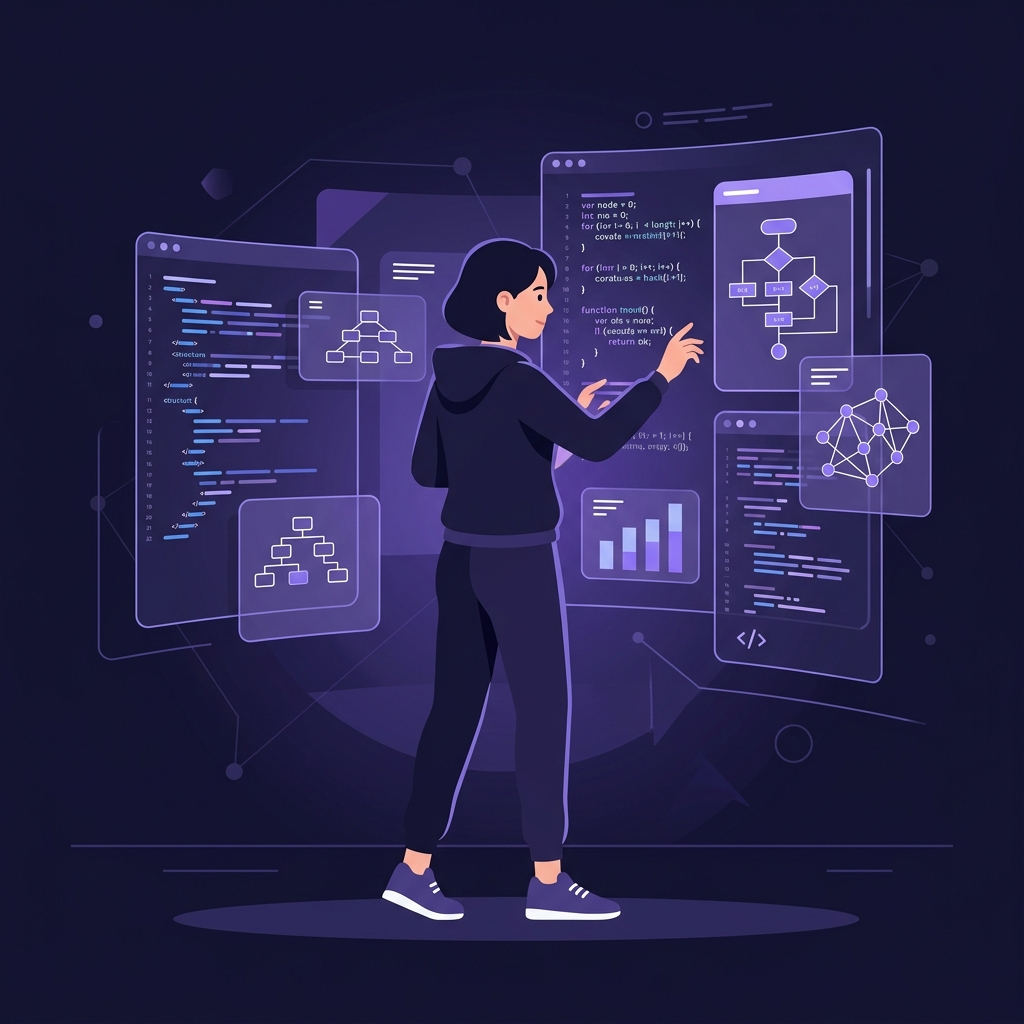
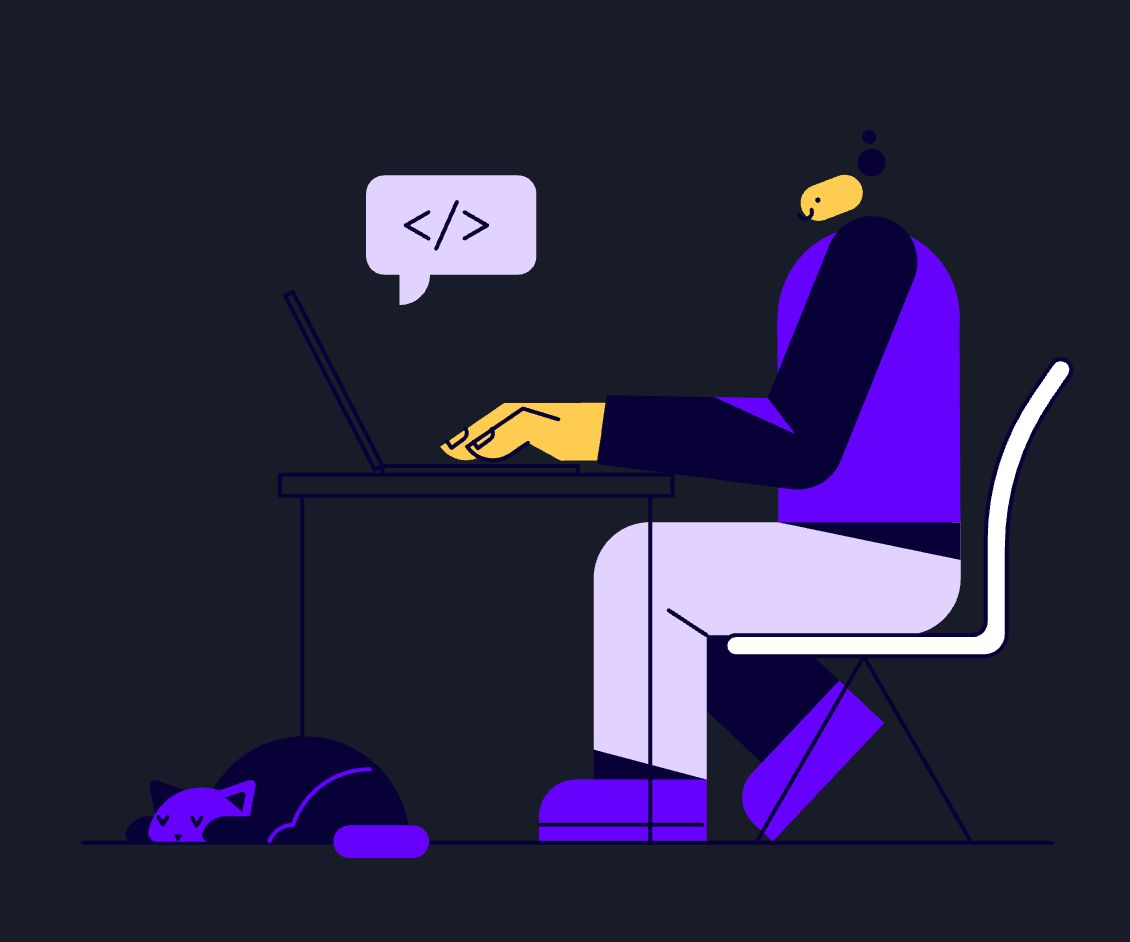
modify changes in index.css

diff --git a/src/index.css b/src/index.css
@@ -98,13 +98,20 @@ body {
 body::before {
   content: '';
   position: fixed;
-  top: 0;
-  left: 0;
-  width: 100%;
-  height: 100%;
+  top: -50%;
+  left: -50%;
+  width: 200%;
+  height: 200%;
   background: var(--gradient-bg);
   pointer-events: none;
   z-index: 0;
+  animation: moveBackground 25s ease-in-out infinite alternate;
+}
+
+@keyframes moveBackground {
+  0% { transform: translate(0, 0) scale(1); }
+  50% { transform: translate(5%, 5%) scale(1.05); }
+  100% { transform: translate(-5%, -5%) scale(1.1); }
 }
 
 #root {